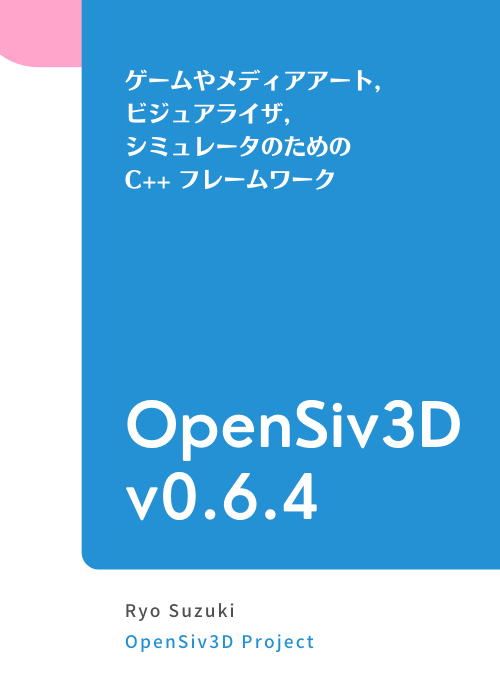
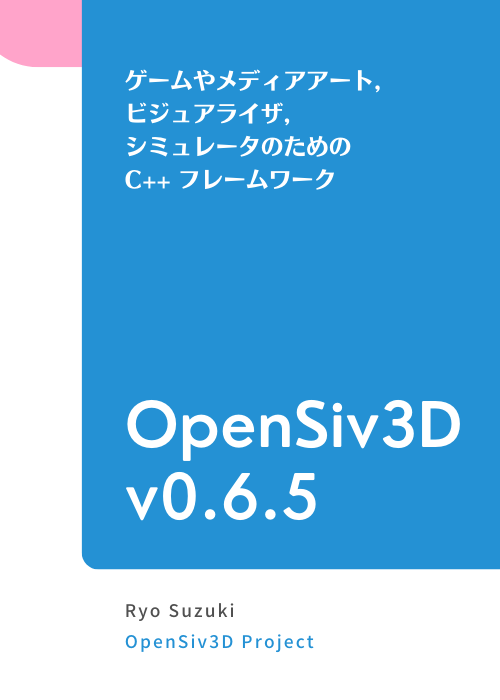
update

Changed region(s): [[0.57, 0.66, 0.63, 0.75]]

diff --git a/books/siv3d-documentation-en/setup.md b/books/siv3d-documentation-en/setup.md
@@ -3,101 +3,7 @@ title: "Getting Started (Installing the Siv3D SDK)"
 free: true
 ---
 
-You will be ready to start Siv3D in about 30 seconds on Windows and macOS.
+# Getting Started (Installing the Siv3D SDK)
 
-# 1. Windows
+See https://siv3d.github.io/ for the installation guide.
 
-## 1.1 Installing the Siv3D SDK
-
-- Download and run **[OpenSiv3D v0.6.4 Installer for Windows Desktop](https://siv3d.jp/downloads/Siv3D/OpenSiv3D_0.6.4_Installer.exe)**.
-- The installer will automatically do the following:
-  - Copy SDK folder (The default location is `Documents`).
-  - Set a user environment variable "SIV3D_0_6_4" with the path to the SDK folder.
-  - Copy the Visual Studio project template for the Siv3D project (The default locations is `Documents\Visual Studio 2022\Templates\ProjectTemplates\`).
-  - Register an uninstaller.
-
-> If you want to uninstall OpenSiv3D SDK, click "Uninstall" in the Apps & features pane.
-> ![](/images/doc_v6/manual/uninstall.png)
-
-::: message
-If the installer fails to run, please install the SDK manually as described in "4. Manually Installing the SDK (Windows)" on this page.
-:::
-
-## 1.2 Building your first application with Siv3D
-
-https://www.youtube.com/watch?v=O0XtvulXSOk
-
-1. Lanuch Visual Studio and open a **New Project Dialog** by clicking **Create a new project**.
-1. Select **OpenSiv3D(X.X.X)** project and then click **Next**. (⚠If the project template is not shown, [see the trouble shooting](https://zenn.dev/reputeless/books/siv3d-documentation-en/viewer/troubleshooting-setup))
-1. Type a name for the project and click **OK** to create the project.
-1. On the **Build** menu, click **Build Solution**.
-1. On the **Debug** menu, click **Start Debugging**.
-
-# 2. macOS
-
-## 2.1 Downloading the Siv3D project template
-
-- Download and extract **[OpenSiv3D v0.6.4 Project Templates for macOS](https://siv3d.jp/downloads/Siv3D/siv3d_v0.6.4_macOS.zip)**
-
-- (On macOS Catalina or later) Move the SDK folder into `User/Applications` folder to prevent a file access permissions dialog from being displayed when your program launches. Some folders such as `User/Desktop` and `User/Downloads` require an access permission for every build.
-
-## 2.2 Building your first application with Siv3D
-1. Open the project file `examples/empty/empty.xcodeproj` in Xcode.
-1. Click **Run button ▶** to build and run the application.
-1. (On macOS Catalina or later) A file access permissions dialog can be inactivated by placing the project folder under `User/Applications` folder.
-
-> 新しいプロジェクトを増やしたい場合は、プロジェクトテンプレートフォルダ内にある `empty` フォルダを同じ階層にコピーしてください。  
-> Xcode 用のプロジェクトジェネレータは将来提供される予定です。
-
-# 3. Linux
-
-The Linux version is not distributed in SDK format, so you will need to build the library yourself.
-
-## 3.1 Getting the latest source code from the official OpenSiv3D repository
-
-[OpenSiv3D 公式リポジトリの main ブランチ](https://github.com/Siv3D/OpenSiv3D) が、最新の安定版です。「Code」からリポジトリをクローンするか、ZIP ファイルでソースコードをダウンロードします（「Download ZIP」）。
-
-![](https://storage.googleapis.com/zenn-user-upload/nc8tfa4gj60oyu134d99tboqtla8)
-
-## 3.2 Installing the dependent packages
-次を参考に必要なパッケージをインストールします。  
-https://github.com/Siv3D/OpenSiv3D/blob/main/.github/workflows/ci.yml#L26-L49
-
-## 3.3 Building the OpenSiv3D library
-次を参考に Siv3D ライブラリをビルドし、`libSiv3D.a` を作成します。 
-https://github.com/Siv3D/OpenSiv3D/blob/main/.github/workflows/ci.yml#L51-L60
-
-## 3.4 Building your first application with Siv3D
-次を参考に Siv3D アプリをビルドします。 
-https://github.com/Siv3D/OpenSiv3D/blob/main/.github/workflows/ci.yml#L62-L71
-
-
-# 4. Manually Installing the Siv3D SDK (Windows)
-If you have trouble with the SDK installer in Windows, you can manually install the Siv3D SDK.
-
-## 4.1 Getting the Siv3D SDK
-
-Download and extract [OpenSiv3D_SDK_0.6.4.zip](https://siv3d.jp/downloads/Siv3D/manual/0.6.4/OpenSiv3D_SDK_0.6.4.zip) (File size: 88 MB), and place the contents in your documents folder as follows:
-
-- `.../Documents/OpenSiv3D_SDK_0.6.4/include`
-- `.../Documents/OpenSiv3D_SDK_0.6.4/lib`
-- `.../Documents/OpenSiv3D_SDK_0.6.4/addon`
-
-## 4.2 Setting the SDK folder path to the environment variable
-
-Create a new environment variable `SIV3D_0_6_4` and set the path to the SDK folder (the parent folder of `include/` and `lib/` placed in 4.1).
-
-Example: If you have placed `C:/Users/Siv3D/Documents/OpenSiv3D_SDK_0.6.4/include`, set `C:/Users/Siv3D/Documents/OpenSiv3D_SDK_0.6.4` to the environment variable `SIV3D_0_6_4`.
-
-![](/images/doc_v6/manual/envvariable.png)
-
-## 4.3 Deploying the OpenSiv3D project template (ZIP)
-Download the project template for Visual Studio [OpenSiv3D_0.6.4.zip](https://siv3d.jp/downloads/Siv3D/manual/0.6.4/OpenSiv3D_0.6.4.zip) (File size: 63 MB), and place it **without extracting it** in the folder `Documents/Visual Studio 2022/Templates/ProjectTemplates/`, which is created in the Documents folder when you install Visual Studio 2022. 
-
-![](/images/doc_v6/manual/projecttemplate.png)
-
-That's it. Reboot your PC to ensure that the environment variables are applied.
-
----
-
-In the next page, you will learn how to customize the Hello Siv3D program.

diff --git a/books/siv3d-documentation/course-study.md b/books/siv3d-documentation/course-study.md
@@ -167,13 +167,6 @@ https://twitter.com/Reputeless/status/1445377010197426180
 - スクリプティング (AngelScript)
 :::
 
-::: details 来月のアップデート (v0.6.4) で追加されるおもな機能
-- 再生中のオーディオバッファへのリアルタイム波形書き込み
-- Union-Find 木（アルゴリズムとデータ構造）
-- 最新の Xcode 13.3 対応
-- マルチプレイヤーゲームを作りやすくする機能 (Photon というサービスを利用)
-:::
-
 
 ### お役立ちリンク
 
@@ -954,7 +947,7 @@ void Main()
 ```
 
 ### Siv3D で使える絵文字の一覧
-Siv3D で使える絵文字は約 3,600 種類あります。絵文字を探すときは [emojipedia](https://emojipedia.org/) の Categories から調べるのが便利です。 OpenSiv3D v0.6.4 はオープンソースの絵文字フォント Noto Color Emoji (Unicode 14.0 版) を内蔵しているので、Siv3D アプリはどのプラットフォームでも同じ見た目の絵文字を表示できます。
+Siv3D で使える絵文字は約 3,600 種類あります。絵文字を探すときは [emojipedia](https://emojipedia.org/) の Categories から調べるのが便利です。 OpenSiv3D v0.6.5 はオープンソースの絵文字フォント Noto Color Emoji (Unicode 14.0 版) を内蔵しているので、Siv3D アプリはどのプラットフォームでも同じ見た目の絵文字を表示できます。
 
 
 ## 3.2 テクスチャを拡大縮小して描画する
@@ -1136,7 +1129,7 @@ void Main()
 ```
 
 ### 対応している画像フォーマット
-OpenSiv3D v0.6.4 では、9 種類の画像フォーマットの読み込みがサポートされています。
+OpenSiv3D v0.6.5 では、9 種類の画像フォーマットの読み込みがサポートされています。
 
 | フォーマット   | 拡張子             | 対応状況       |
 |----------|-----------------|:----------:|
@@ -1182,7 +1175,7 @@ void Main()
 ## 3.8 動画をテクスチャとして扱う
 シーンに動画を描きたいときは `VideoTexture` を作成し、`.draw()` または `.drawAt()` します。`VideoTexture` は `Texture` とほぼ同じインタフェースを持ち、動画ファイルを `Texture` のように扱えます。`VideoTexture` は毎フレーム `.advance()` を呼ぶことで再生位置を進めます。Siv3D はバックグラウンドのスレッドで動画の次のフレームの先読みを行っています。
 
-対応する動画フォーマットはプラットフォームによって異なりますが、MP4 ファイルは Windows, macOS, Linux でサポートされています。音声付き動画の音声を再生する方法は OpenSiv3D v0.6.4 では用意されていません。映像のみです。
+対応する動画フォーマットはプラットフォームによって異なりますが、MP4 ファイルは Windows, macOS, Linux でサポートされています。音声付き動画の音声を再生する方法は OpenSiv3D v0.6.5 では用意されていません。映像のみです。
 
 https://youtu.be/B4WPEdA4vMI
 ```cpp

diff --git a/books/siv3d-documentation-en/course-quick-turorial.md b/books/siv3d-documentation-en/course-quick-turorial.md
@@ -773,7 +773,7 @@ void Main()
 ```
 
 ### Siv3D で使える絵文字の一覧
-Siv3D で使える絵文字は約 3,600 種類あります。絵文字を探すときは [emojipedia](https://emojipedia.org/) の Categories から調べるのが便利です。 OpenSiv3D v0.6.4 はオープンソースの絵文字フォント Noto Color Emoji (Unicode 14.0 版) を内蔵しているので、Siv3D アプリはどのプラットフォームでも同じ見た目の絵文字を表示できます。
+Siv3D で使える絵文字は約 3,600 種類あります。絵文字を探すときは [emojipedia](https://emojipedia.org/) の Categories から調べるのが便利です。 OpenSiv3D v0.6.5 はオープンソースの絵文字フォント Noto Color Emoji (Unicode 14.0 版) を内蔵しているので、Siv3D アプリはどのプラットフォームでも同じ見た目の絵文字を表示できます。
 
 
 ## 3.2 テクスチャを拡大縮小して描画する
@@ -955,7 +955,7 @@ void Main()
 ```
 
 ### 対応している画像フォーマット
-OpenSiv3D v0.6.4 では、9 種類の画像フォーマットの読み込みがサポートされています。
+OpenSiv3D v0.6.5 では、9 種類の画像フォーマットの読み込みがサポートされています。
 
 | フォーマット   | 拡張子             | 対応状況       |
 |----------|-----------------|:----------:|
@@ -1001,7 +1001,7 @@ void Main()
 ## 3.8 動画をテクスチャとして扱う
 シーンに動画を描きたいときは `VideoTexture` を作成し、`.draw()` または `.drawAt()` します。`VideoTexture` は `Texture` とほぼ同じインタフェースを持ち、動画ファイルを `Texture` のように扱えます。`VideoTexture` は毎フレーム `.advance()` を呼ぶことで再生位置を進めます。Siv3D はバックグラウンドのスレッドで動画の次のフレームの先読みを行っています。
 
-対応する動画フォーマットはプラットフォームによって異なりますが、MP4 ファイルは Windows, macOS, Linux でサポートされています。音声付き動画の音声を再生する方法は OpenSiv3D v0.6.4 では用意されていません。映像のみです。
+対応する動画フォーマットはプラットフォームによって異なりますが、MP4 ファイルは Windows, macOS, Linux でサポートされています。音声付き動画の音声を再生する方法は OpenSiv3D v0.6.5 では用意されていません。映像のみです。
 
 https://youtu.be/B4WPEdA4vMI
 ```cpp

diff --git a/books/siv3d-documentation/course-quick-turorial.md b/books/siv3d-documentation/course-quick-turorial.md
@@ -773,7 +773,7 @@ void Main()
 ```
 
 ### Siv3D で使える絵文字の一覧
-Siv3D で使える絵文字は約 3,600 種類あります。絵文字を探すときは [emojipedia](https://emojipedia.org/) の Categories から調べるのが便利です。 OpenSiv3D v0.6.4 はオープンソースの絵文字フォント Noto Color Emoji (Unicode 14.0 版) を内蔵しているので、Siv3D アプリはどのプラットフォームでも同じ見た目の絵文字を表示できます。
+Siv3D で使える絵文字は約 3,600 種類あります。絵文字を探すときは [emojipedia](https://emojipedia.org/) の Categories から調べるのが便利です。 OpenSiv3D v0.6.5 はオープンソースの絵文字フォント Noto Color Emoji (Unicode 14.0 版) を内蔵しているので、Siv3D アプリはどのプラットフォームでも同じ見た目の絵文字を表示できます。
 
 
 ## 3.2 テクスチャを拡大縮小して描画する
@@ -955,7 +955,7 @@ void Main()
 ```
 
 ### 対応している画像フォーマット
-OpenSiv3D v0.6.4 では、9 種類の画像フォーマットの読み込みがサポートされています。
+OpenSiv3D v0.6.5 では、9 種類の画像フォーマットの読み込みがサポートされています。
 
 | フォーマット   | 拡張子             | 対応状況       |
 |----------|-----------------|:----------:|
@@ -1001,7 +1001,7 @@ void Main()
 ## 3.8 動画をテクスチャとして扱う
 シーンに動画を描きたいときは `VideoTexture` を作成し、`.draw()` または `.drawAt()` します。`VideoTexture` は `Texture` とほぼ同じインタフェースを持ち、動画ファイルを `Texture` のように扱えます。`VideoTexture` は毎フレーム `.advance()` を呼ぶことで再生位置を進めます。Siv3D はバックグラウンドのスレッドで動画の次のフレームの先読みを行っています。
 
-対応する動画フォーマットはプラットフォームによって異なりますが、MP4 ファイルは Windows, macOS, Linux でサポートされています。音声付き動画の音声を再生する方法は OpenSiv3D v0.6.4 では用意されていません。映像のみです。
+対応する動画フォーマットはプラットフォームによって異なりますが、MP4 ファイルは Windows, macOS, Linux でサポートされています。音声付き動画の音声を再生する方法は OpenSiv3D v0.6.5 では用意されていません。映像のみです。
 
 https://youtu.be/B4WPEdA4vMI
 ```cpp

diff --git a/books/siv3d-documentation-en/tutorial-audio.md b/books/siv3d-documentation-en/tutorial-audio.md
@@ -32,7 +32,7 @@ void Main()
 ```
 
 ### 対応している音声フォーマット
-OpenSiv3D v0.6.4 では、次のような音声フォーマットの読み込みがサポートされています。一部の音声フォーマットは OS によって対応状況が異なります。
+OpenSiv3D v0.6.5 では、次のような音声フォーマットの読み込みがサポートされています。一部の音声フォーマットは OS によって対応状況が異なります。
 
 | フォーマット    | 拡張子                | Windows | macOS | Linux | Web |
 |-----------|--------------------|:-------:|:-----:|:-----:|:---:|
@@ -666,7 +666,7 @@ void Main()
 |`GlobalAudio::BusSetReverbFilter()`|  リバーブフィルタを設定します |
 |`GlobalAudio::BusSetPitchShiftFilter()`|  ピッチシフトフィルタを設定します |
 
-OpenSiv3D v0.6.4 Web 版では、ピッチシフトフィルタを利用できません。`GlobalAudio::SupportsPitchShift()` を使うと、現在の実行環境でピッチシフトフィルタを利用できるかを取得できます。
+OpenSiv3D v0.6.5 Web 版では、ピッチシフトフィルタを利用できません。`GlobalAudio::SupportsPitchShift()` を使うと、現在の実行環境でピッチシフトフィルタを利用できるかを取得できます。
 
 次のサンプルは、オーディオフィルタ機能のデモです。これまでの章では扱っていない、いくつかの高度な機能を含んでいます。「Open audio file」をクリックすると、パソコンに保存されているオーディオファイルをオープンできます。
 

diff --git a/books/siv3d-documentation/tutorial-audio.md b/books/siv3d-documentation/tutorial-audio.md
@@ -32,7 +32,7 @@ void Main()
 ```
 
 ### 対応している音声フォーマット
-OpenSiv3D v0.6.4 では、次のような音声フォーマットの読み込みがサポートされています。一部の音声フォーマットは OS によって対応状況が異なります。
+OpenSiv3D v0.6.5 では、次のような音声フォーマットの読み込みがサポートされています。一部の音声フォーマットは OS によって対応状況が異なります。
 
 | フォーマット    | 拡張子                | Windows | macOS | Linux | Web |
 |-----------|--------------------|:-------:|:-----:|:-----:|:---:|
@@ -666,7 +666,7 @@ void Main()
 |`GlobalAudio::BusSetReverbFilter()`|  リバーブフィルタを設定します |
 |`GlobalAudio::BusSetPitchShiftFilter()`|  ピッチシフトフィルタを設定します |
 
-OpenSiv3D v0.6.4 Web 版では、ピッチシフトフィルタを利用できません。`GlobalAudio::SupportsPitchShift()` を使うと、現在の実行環境でピッチシフトフィルタを利用できるかを取得できます。
+OpenSiv3D v0.6.5 Web 版では、ピッチシフトフィルタを利用できません。`GlobalAudio::SupportsPitchShift()` を使うと、現在の実行環境でピッチシフトフィルタを利用できるかを取得できます。
 
 次のサンプルは、オーディオフィルタ機能のデモです。これまでの章では扱っていない、いくつかの高度な機能を含んでいます。「Open audio file」をクリックすると、パソコンに保存されているオーディオファイルをオープンできます。
 

diff --git a/books/siv3d-documentation-en/tutorial-texture.md b/books/siv3d-documentation-en/tutorial-texture.md
@@ -71,7 +71,7 @@ void Main()
 ```
 
 ### Siv3D で使える絵文字の一覧
-Siv3D で使える絵文字は約 3,600 種類あります。絵文字を探すときは [emojipedia](https://emojipedia.org/) の Categories から調べるのが便利です。 OpenSiv3D v0.6.4 はオープンソースの絵文字フォント Noto Color Emoji (Unicode 14.0 版) を内蔵しているので、Siv3D アプリはどのプラットフォームでも同じ見た目の絵文字を表示できます。
+Siv3D で使える絵文字は約 3,600 種類あります。絵文字を探すときは [emojipedia](https://emojipedia.org/) の Categories から調べるのが便利です。 OpenSiv3D v0.6.5 はオープンソースの絵文字フォント Noto Color Emoji (Unicode 14.0 版) を内蔵しているので、Siv3D アプリはどのプラットフォームでも同じ見た目の絵文字を表示できます。
 
 ## 8.2 テクスチャを拡大縮小して描画する
 
@@ -249,7 +249,7 @@ void Main()
 ```
 
 ### 対応している画像フォーマット
-OpenSiv3D v0.6.4 では、9 種類の画像フォーマットの読み込みがサポートされています。
+OpenSiv3D v0.6.5 では、9 種類の画像フォーマットの読み込みがサポートされています。
 
 | フォーマット   | 拡張子             | 対応状況       |
 |----------|-----------------|:----------:|

diff --git a/books/siv3d-documentation/tutorial-texture.md b/books/siv3d-documentation/tutorial-texture.md
@@ -71,7 +71,7 @@ void Main()
 ```
 
 ### Siv3D で使える絵文字の一覧
-Siv3D で使える絵文字は約 3,600 種類あります。絵文字を探すときは [emojipedia](https://emojipedia.org/) の Categories から調べるのが便利です。 OpenSiv3D v0.6.4 はオープンソースの絵文字フォント Noto Color Emoji (Unicode 14.0 版) を内蔵しているので、Siv3D アプリはどのプラットフォームでも同じ見た目の絵文字を表示できます。
+Siv3D で使える絵文字は約 3,600 種類あります。絵文字を探すときは [emojipedia](https://emojipedia.org/) の Categories から調べるのが便利です。 OpenSiv3D v0.6.5 はオープンソースの絵文字フォント Noto Color Emoji (Unicode 14.0 版) を内蔵しているので、Siv3D アプリはどのプラットフォームでも同じ見た目の絵文字を表示できます。
 
 ## 8.2 テクスチャを拡大縮小して描画する
 
@@ -249,7 +249,7 @@ void Main()
 ```
 
 ### 対応している画像フォーマット
-OpenSiv3D v0.6.4 では、9 種類の画像フォーマットの読み込みがサポートされています。
+OpenSiv3D v0.6.5 では、9 種類の画像フォーマットの読み込みがサポートされています。
 
 | フォーマット   | 拡張子             | 対応状況       |
 |----------|-----------------|:----------:|

diff --git a/books/siv3d-documentation-en/tutorial-video.md b/books/siv3d-documentation-en/tutorial-video.md
@@ -12,7 +12,7 @@ free: true
 
 `VideoTexture` ではミップマップが作成されないため、動画を縮小して描く場合はあらかじめ小さい解像度の動画を用意しておくことが実行時性能上からも望ましいです。
 
-対応する動画フォーマットはプラットフォームによって異なりますが、MP4 ファイルは Windows, macOS, Linux でサポートされています。音声付き動画の音声を再生する方法は OpenSiv3D v0.6.4 では用意されていません。映像のみです。
+対応する動画フォーマットはプラットフォームによって異なりますが、MP4 ファイルは Windows, macOS, Linux でサポートされています。音声付き動画の音声を再生する方法は OpenSiv3D v0.6.5 では用意されていません。映像のみです。
 
 Windows では、のちのチュートリアルで説明する「リソースファイルの埋め込み」で埋め込んだ動画ファイルを `VideoTexture` では読み込めないという制約があります。ワークアラウンドとして、[一時ファイルに書き出す方法](https://gist.github.com/Reputeless/3d527302d459792f7a5e1094d30d0529) があります。
 

diff --git a/books/siv3d-documentation/tutorial-video.md b/books/siv3d-documentation/tutorial-video.md
@@ -12,7 +12,7 @@ free: true
 
 `VideoTexture` ではミップマップが作成されないため、動画を縮小して描く場合はあらかじめ小さい解像度の動画を用意しておくことが実行時性能上からも望ましいです。
 
-対応する動画フォーマットはプラットフォームによって異なりますが、MP4 ファイルは Windows, macOS, Linux でサポートされています。音声付き動画の音声を再生する方法は OpenSiv3D v0.6.4 では用意されていません。映像のみです。
+対応する動画フォーマットはプラットフォームによって異なりますが、MP4 ファイルは Windows, macOS, Linux でサポートされています。音声付き動画の音声を再生する方法は OpenSiv3D v0.6.5 では用意されていません。映像のみです。
 
 Windows では、のちのチュートリアルで説明する「リソースファイルの埋め込み」で埋め込んだ動画ファイルを `VideoTexture` では読み込めないという制約があります。ワークアラウンドとして、[一時ファイルに書き出す方法](https://gist.github.com/Reputeless/3d527302d459792f7a5e1094d30d0529) があります。
 

diff --git a/books/siv3d-documentation-en/tutorial-scene.md b/books/siv3d-documentation-en/tutorial-scene.md
@@ -22,7 +22,7 @@ Siv3D プログラムにおける画面表示を理解するには、「3 つの
 #### ② 仮想ウィンドウサイズ
 ユーザのデスクトップ上における、ウィンドウの**クライアント領域**（タイトルバーやフレームを除く、描画が行われる領域）の見かけのサイズです。`Window::GetState().virtualSize` で取得できます。この仮想ウィンドウサイズに OS 設定の拡大縮小倍率 (150%, 200% など) を乗算したものが、後述する実ウィンドウサイズになります。
 
-※ Linux 版では OS 設定の拡大縮小倍率に未対応で、仮想ウィンドウサイズと実ウィンドウサイズは同じになります（OpenSiv3D v0.6.4 現在）
+※ Linux 版では OS 設定の拡大縮小倍率に未対応で、仮想ウィンドウサイズと実ウィンドウサイズは同じになります（OpenSiv3D v0.6.5 現在）
 
 #### ③ 実ウィンドウサイズ（フレームバッファサイズ）
 モニタ上のピクセル数で計測した、ウィンドウのクライアント領域のサイズです。`Window::GetState().frameBufferSize` で取得できます。

diff --git a/books/siv3d-documentation/tutorial-scene.md b/books/siv3d-documentation/tutorial-scene.md
@@ -22,7 +22,7 @@ Siv3D プログラムにおける画面表示を理解するには、「3 つの
 #### ② 仮想ウィンドウサイズ
 ユーザのデスクトップ上における、ウィンドウの**クライアント領域**（タイトルバーやフレームを除く、描画が行われる領域）の見かけのサイズです。`Window::GetState().virtualSize` で取得できます。この仮想ウィンドウサイズに OS 設定の拡大縮小倍率 (150%, 200% など) を乗算したものが、後述する実ウィンドウサイズになります。
 
-※ Linux 版では OS 設定の拡大縮小倍率に未対応で、仮想ウィンドウサイズと実ウィンドウサイズは同じになります（OpenSiv3D v0.6.4 現在）
+※ Linux 版では OS 設定の拡大縮小倍率に未対応で、仮想ウィンドウサイズと実ウィンドウサイズは同じになります（OpenSiv3D v0.6.5 現在）
 
 #### ③ 実ウィンドウサイズ（フレームバッファサイズ）
 モニタ上のピクセル数で計測した、ウィンドウのクライアント領域のサイズです。`Window::GetState().frameBufferSize` で取得できます。
